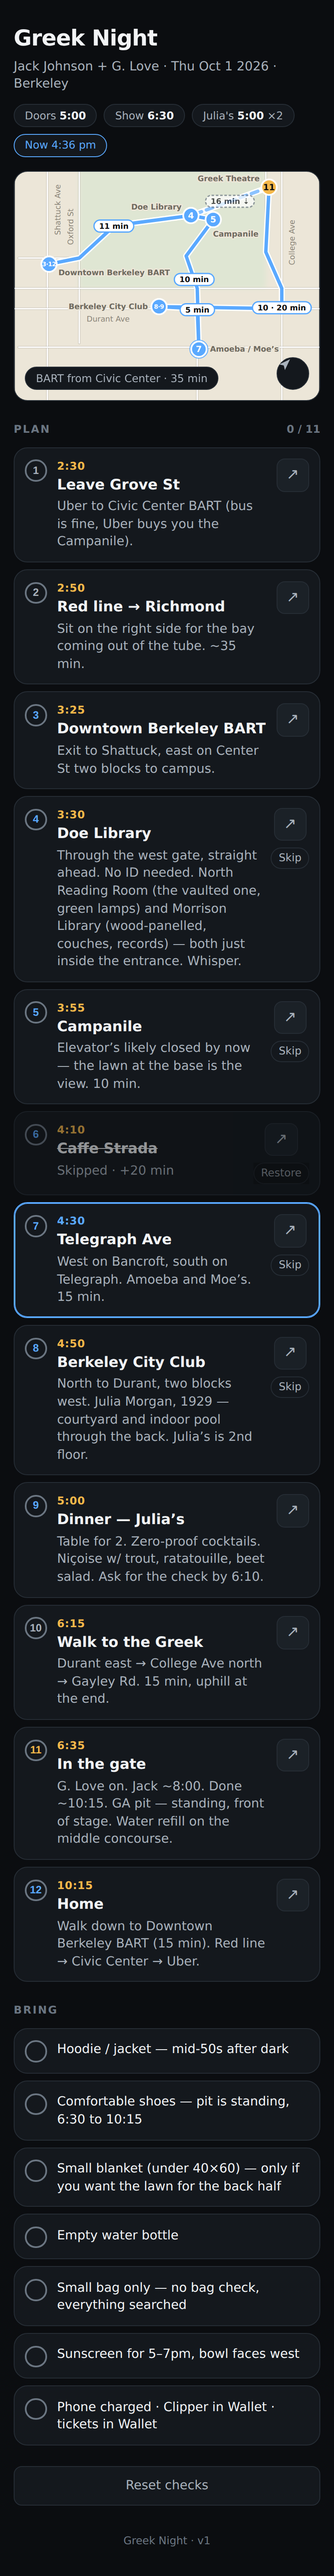
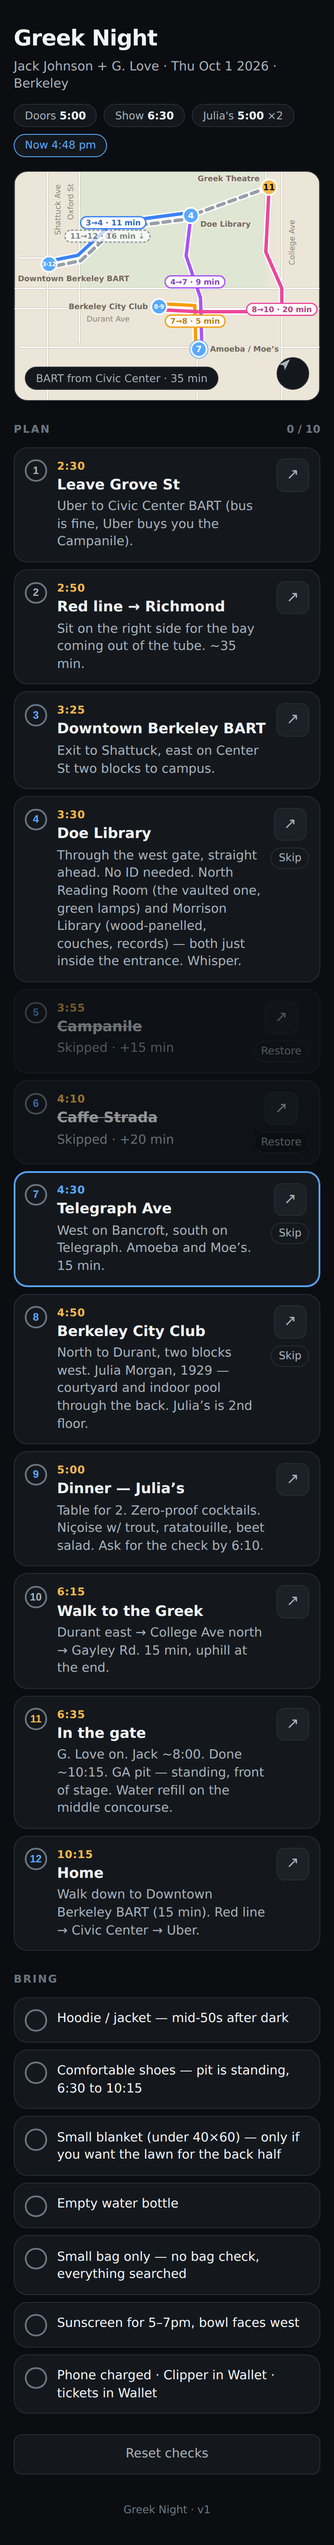
greek-night: colour per leg, parallel shared streets, 4-7 override
Each outbound leg is its own path in its own colour; a leg spliced by a
skip takes the colour of the leg it starts with. Pills carry the leg's
numbers in its colour. Where two legs run along the same street they
are drawn side by side, 3.5 units either side of a shared centreline,
so both show; the return now shows beside 3→4 all the way home. The
pin popup lists the legs in and out of the pin with colour dots.
Skipping 5 and 6 together walks Doe → Sather Gate → Telegraph → Amoeba.

Claude-Session: https://claude.ai/code/session_01SYEqCQ4izqiJdBAjLeUwFf

diff --git a/greek-night.html b/greek-night.html
@@ -68,11 +68,12 @@
   .gn-route-case{fill:none;stroke:#fff;stroke-width:7;stroke-linejoin:round;stroke-linecap:round}
   .gn-route{fill:none;stroke:var(--now);stroke-width:4;stroke-linejoin:round;stroke-linecap:round}
   .gn-route.ret{stroke-dasharray:8 6;opacity:.7}
+  .pp-dot{display:inline-block;width:.5rem;height:.5rem;border-radius:50%;margin-right:.35rem;vertical-align:.05em}
   .pin-l{font-size:9px;fill:#6f6a5f;stroke:#ece6d8;stroke-width:3;paint-order:stroke;stroke-linejoin:round;font-weight:600}
-  .walk-b{fill:#fff;stroke:var(--now);stroke-width:1.5}
-  .walk-t{font-size:9px;font-weight:700;fill:#0b0d10}
+  .walk-b{fill:#fff;stroke-width:1.5}
+  .walk-t{font-size:9px;font-weight:700}
   .walk.ret{opacity:.7}
-  .walk.ret .walk-b{stroke:var(--ink3);stroke-dasharray:3 2}
+  .walk.ret .walk-b{stroke-dasharray:3 2}
   .pin{cursor:pointer;transition:opacity .2s}
   .pin.done{opacity:.45}
   .pin-c{fill:var(--now);stroke:#fff;stroke-width:2}
@@ -283,6 +284,18 @@
     7: [[37.8687, -122.2588], [37.8687, -122.2612]],
     8: [[37.8677, -122.2588], [37.8677, -122.2535], [37.8687, -122.2535], [37.8705, -122.2545]]
   };
+  /* a gap with a better walk than its chained bypasses: skip 5 and 6 → Doe, Sather Gate, Bancroft & Telegraph, Amoeba */
+  var GAP_OVERRIDE = {'4-7': BYPASS[6]};
+  /* one colour per leg; a leg spliced by a skip takes the colour of the leg it starts with */
+  var LEG_COLOURS = {'3-4':'#3b82f6', '4-5':'#a855f7', '5-6':'#14b8a6', '6-7':'#22c55e', '7-8':'#f59e0b', '8-11':'#ec4899', 'ret':'#6b7682'};
+  function legColour(fromStep){
+    for (var k in LEG_COLOURS) if (k.split('-')[0] === String(fromStep)) return LEG_COLOURS[k];
+    return LEG_COLOURS.ret;
+  }
+  function darker(hex){   /* 20% darker, for pill text */
+    var n = parseInt(hex.slice(1), 16), c = [n >> 16 & 255, n >> 8 & 255, n & 255].map(function(v){ return Math.round(v * 0.8); });
+    return '#' + c.map(function(v){ return ('0' + v.toString(16)).slice(-2); }).join('');
+  }
   /* a pin stays while any of its steps is live: skip 8 and City Club remains for dinner, reading 9 */
   function liveSteps(s){ return s.steps.filter(function(k){ return !isSkipped(k); }); }
   function livePlaces(){ return PLACES.filter(function(s){ return liveSteps(s).length > 0; }); }
@@ -310,14 +323,19 @@
     var live = livePlaces(), legs = [];
     for (var i = 1; i < live.length; i++) {
       var a = live[i - 1], b = live[i], pts = [[a.lat, a.lng]];
+      var key = a.steps[0] + '-' + b.steps[0];
       var gap = PLACES.filter(function(s){ return s.steps[0] > a.steps[0] && s.steps[0] < b.steps[0]; });   /* the skipped pins between them, in order */
-      if (gap.length) gap.forEach(function(s){ pts = pts.concat(BYPASS[s.steps[0]]); });
-      else pts = pts.concat(LEG_WP[a.steps[0] + '-' + b.steps[0]] || []);
+      if (gap.length && GAP_OVERRIDE[key]) pts = pts.concat(GAP_OVERRIDE[key]);
+      else if (gap.length) gap.forEach(function(s){ pts = pts.concat(BYPASS[s.steps[0]]); });
+      else pts = pts.concat(LEG_WP[key] || []);
       pts.push([b.lat, b.lng]);
-      legs.push({pts:pts, mph:b.greek ? 2.5 : 3, label:b.greek ? '10 · ' : ''});   /* the climb to the Greek is step 10 */
+      /* named by the steps at each end; the climb to the Greek is step 10 */
+      legs.push({pts:pts, mph:b.greek ? 2.5 : 3, a:a, b:b, col:legColour(a.steps[0]),
+                 name:liveSteps(a)[0] + '→' + (b.greek ? 10 : liveSteps(b)[0])});
     }
     /* the return's pill sits on its visible dashed stretch (Greek → Doe) */
-    legs.push({pts:BACK, mph:3, ret:true, place:BACK.slice(0, 2)});
+    var greek = PLACES[PLACES.length - 1], bart = PLACES[0];
+    legs.push({pts:BACK, mph:3, ret:true, place:BACK.slice(0, 2), a:greek, b:bart, col:LEG_COLOURS.ret, name:'11→12'});
     legs.forEach(function(l){
       var m = 0;
       for (var j = 1; j < l.pts.length; j++) m += metres(l.pts[j - 1], l.pts[j]);
@@ -325,11 +343,8 @@
     });
     return legs;
   }
-  var LEGS = [], OUT = [];
-  function routeData(){
-    LEGS = walkLegs(); OUT = [];
-    LEGS.forEach(function(l){ if (l.ret) return; l.pts.forEach(function(c, j){ if (j === 0 && OUT.length) return; OUT.push(c); }); });
-  }
+  var LEGS = [];
+  function routeData(){ LEGS = walkLegs(); }
   var CAMPUS = [[37.8687, -122.2662], [37.8687, -122.2545], [37.8755, -122.2545], [37.8755, -122.2662]];
   var K = Math.cos(37.87 * Math.PI / 180);
   var NS = 'http://www.w3.org/2000/svg';
@@ -348,8 +363,9 @@
     return e;
   }
   function esc(s){ return String(s).replace(/[&<>"']/g, function(c){ return {'&':'&amp;','<':'&lt;','>':'&gt;','"':'&quot;',"'":'&#39;'}[c]; }); }
-  function popPill(href, name, meta){
-    return '<a class="pp" href="' + esc(href) + '" target="_blank" rel="noopener"><span class="pp-t"><b>' + name + '</b><span class="pp-m">' + meta + '</span></span><span class="pp-c">›</span></a>';
+  function popPill(href, name, lines){
+    return '<a class="pp" href="' + esc(href) + '" target="_blank" rel="noopener"><span class="pp-t"><b>' + name + '</b>' +
+      lines.map(function(l){ return '<span class="pp-m">' + l + '</span>'; }).join('') + '</span><span class="pp-c">›</span></a>';
   }
   function f(n){ return n.toFixed(1); }
 
@@ -377,6 +393,110 @@
     ob.segs.forEach(function(sg){ if (segHitsRect(sg[0], sg[1], R)) s += 10; });
     ob.rects.forEach(function(o){ if (rectsHit(r, o)) s += 10; });
     return s;
+  }
+
+  /* Shared streets: where two legs run along the same stretch, draw them side by side so both colours show.
+     1. split any segment where another leg's segment runs along it (under 8° apart, within 5 units), at the overlap's ends;
+     2. a split segment whose ends match another leg's segment that way, either direction, is shared;
+     3. every sharer snaps to one centreline and is offset 3.5 units off it, opposite sides; corners mitre, pin ends stay under the pin.
+     5 units, not 2: at wide sizes the City Club sits a few units off the Durant line, so its two legs fan out at slightly
+     different slopes while their 4-unit strokes still overlap. */
+  function parallelLegs(legs, P){
+    var TOL = 5, PAR = 0.14, GAP = 7, polys = legs.map(function(l){ return l.pts.map(function(c){ return P(c[0], c[1]); }); });
+    function sub(a, b){ return [a[0] - b[0], a[1] - b[1]]; }
+    function dot(a, b){ return a[0] * b[0] + a[1] * b[1]; }
+    function unit(a, b){ var d = sub(b, a), L = Math.hypot(d[0], d[1]) || 1; return [d[0] / L, d[1] / L]; }
+    function along(a0, a1, b0, b1){   /* b runs along a: parallel and both ends close to a's line */
+      var u = unit(a0, a1), v = unit(b0, b1);
+      if (Math.abs(u[0] * v[1] - u[1] * v[0]) > PAR) return false;
+      var t0 = sub(b0, a0), t1 = sub(b1, a0);
+      return Math.abs(u[0] * t0[1] - u[1] * t0[0]) <= TOL && Math.abs(u[0] * t1[1] - u[1] * t1[0]) <= TOL;
+    }
+    var cuts = polys.map(function(pl){ return pl.slice(1).map(function(){ return []; }); });
+    polys.forEach(function(A, i){ polys.forEach(function(B, j){
+      if (j === i) return;
+      for (var k = 0; k < A.length - 1; k++) {
+        var s0 = A[k], L = Math.hypot(A[k + 1][0] - s0[0], A[k + 1][1] - s0[1]);
+        if (L < 1) continue;
+        var u = unit(s0, A[k + 1]);
+        for (var m = 0; m < B.length - 1; m++) {
+          if (!along(s0, A[k + 1], B[m], B[m + 1])) continue;
+          var a = dot(u, sub(B[m], s0)), b = dot(u, sub(B[m + 1], s0));
+          var lo = Math.max(0, Math.min(a, b)), hi = Math.min(L, Math.max(a, b));
+          if (hi - lo < 3) continue;
+          [lo, hi].forEach(function(q){ if (q > 0.5 && q < L - 0.5) cuts[i][k].push(q); });
+        }
+      }
+    }); });
+    polys = polys.map(function(pl, i){
+      var out = [pl[0]];
+      for (var k = 0; k < pl.length - 1; k++) {
+        var d = sub(pl[k + 1], pl[k]), L = Math.hypot(d[0], d[1]);
+        cuts[i][k].sort(function(x, y){ return x - y; }).forEach(function(q, n, arr){
+          if (n && q - arr[n - 1] < 0.5) return;
+          out.push([pl[k][0] + d[0] * q / L, pl[k][1] + d[1] * q / L]);
+        });
+        out.push(pl[k + 1]);
+      }
+      return out;
+    });
+    function near(a, b){ return Math.hypot(a[0] - b[0], a[1] - b[1]) <= TOL; }
+    var off = polys.map(function(pl, i){
+      return pl.slice(1).map(function(_, k){
+        var a = pl[k], b = pl[k + 1], who = [{i:i, a:a, b:b}];
+        polys.forEach(function(Q, j){
+          if (j === i) return;
+          for (var m = 0; m < Q.length - 1; m++) {
+            if (near(a, Q[m]) && near(b, Q[m + 1]) && along(a, b, Q[m], Q[m + 1])) { who.push({i:j, a:Q[m], b:Q[m + 1]}); break; }
+            if (near(a, Q[m + 1]) && near(b, Q[m]) && along(a, b, Q[m + 1], Q[m])) { who.push({i:j, a:Q[m + 1], b:Q[m]}); break; }
+          }
+        });
+        if (who.length < 2) return {o:0, a:a, b:b};
+        who.sort(function(x, y){ return x.i - y.i; });
+        var ref = who[0], r0 = near(a, ref.a) ? ref.a : ref.b, r1 = r0 === ref.a ? ref.b : ref.a;   /* the shared centreline, in this leg's direction */
+        var c0 = (r0[0] < r1[0] || (r0[0] === r1[0] && r0[1] < r1[1])) ? r0 : r1, c1 = c0 === r0 ? r1 : r0;   /* the same normal for every sharer */
+        var n = unit(c0, c1);
+        var rank = who.map(function(x){ return x.i; }).indexOf(i);
+        return {o:(rank - (who.length - 1) / 2) * GAP, n:[-n[1], n[0]], a:r0, b:r1};
+      });
+    });
+    /* a leg keeps its offset along a straight continuation of a shared run, instead of jogging back to the centreline
+       right where another leg turns the corner */
+    off.forEach(function(sgs, i){
+      var pl = polys[i], changed = true;
+      while (changed) {
+        changed = false;
+        sgs.forEach(function(sg, k){
+          if (sg.o) return;
+          [k - 1, k + 1].forEach(function(nb){
+            if (sg.o || nb < 0 || nb >= sgs.length || !sgs[nb].o) return;
+            var u = unit(pl[k], pl[k + 1]), v = unit(pl[nb], pl[nb + 1]);
+            if (Math.abs(u[0] * v[1] - u[1] * v[0]) > PAR || dot(u, v) < 0) return;
+            sg.o = sgs[nb].o; sg.n = sgs[nb].n; changed = true;
+            if (nb === k - 1) sg.a = sgs[nb].b; else sg.b = sgs[nb].a;   /* start exactly where the snapped shared run ends */
+          });
+        });
+      }
+    });
+    polys.forEach(function(pl, i){
+      var seg = off[i].map(function(sg){
+        var n = sg.n || [0, 0];
+        return {o:sg.o, A:[sg.a[0] + n[0] * sg.o, sg.a[1] + n[1] * sg.o], B:[sg.b[0] + n[0] * sg.o, sg.b[1] + n[1] * sg.o]};
+      });
+      var draw = [seg[0].A];
+      for (var k = 1; k < seg.length; k++) {
+        var p = seg[k - 1], q = seg[k], v = pl[k];
+        if (!p.o && !q.o) { draw.push(v); continue; }
+        var r = sub(p.B, p.A), t = sub(q.B, q.A), den = r[0] * t[1] - r[1] * t[0];
+        if (Math.abs(den) > 1e-6) {
+          var w0 = sub(q.A, p.A), x = (w0[0] * t[1] - w0[1] * t[0]) / den, X = [p.A[0] + r[0] * x, p.A[1] + r[1] * x];
+          if (Math.hypot(X[0] - v[0], X[1] - v[1]) < 12) { draw.push(X); continue; }
+        }
+        draw.push(p.B); if (Math.hypot(p.B[0] - q.A[0], p.B[1] - q.A[1]) > 0.3) draw.push(q.A);
+      }
+      draw.push(seg[seg.length - 1].B);
+      legs[i].draw = draw;
+    });
   }
 
   function buildMap(){
@@ -422,19 +542,19 @@
       return [a, b];
     });
 
-    function routeD(pts){ return pts.map(function(c, k){ var p = P(c[0], c[1]); return (k ? 'L' : 'M') + f(p[0]) + ' ' + f(p[1]); }).join(''); }
-    var dOut = routeD(OUT), dBack = routeD(BACK);
-    S('path', {'class':'gn-route-case', d:dBack}, svg);
-    S('path', {'class':'gn-route ret', d:dBack}, svg);
-    S('path', {'class':'gn-route-case', d:dOut}, svg);
-    S('path', {'class':'gn-route', d:dOut}, svg);
+    parallelLegs(LEGS, P);
+    function routeD(pts){ return pts.map(function(p, k){ return (k ? 'L' : 'M') + f(p[0]) + ' ' + f(p[1]); }).join(''); }
+    var gr = S('g', {}, svg), outs = LEGS.filter(function(l){ return !l.ret; }), ret = LEGS.filter(function(l){ return l.ret; });
+    /* all casings first so no casing covers a neighbouring line; the return under the outbound legs */
+    ret.concat(outs).forEach(function(l){ S('path', {'class':'gn-route-case', d:routeD(l.draw)}, gr); });
+    ret.concat(outs).forEach(function(l){
+      S('path', {'class':'gn-route' + (l.ret ? ' ret' : ''), d:routeD(l.draw), style:'stroke:' + l.col, 'data-leg':l.name}, gr);
+    });
 
     /* obstacles for label placement */
     var ob = {circles:[], segs:[], rects:[]};
     livePlaces().forEach(function(s){ var p = P(s.lat, s.lng); ob.circles.push([p[0], p[1], 12]); });
-    [OUT, BACK].forEach(function(pts){
-      for (var i = 1; i < pts.length; i++) ob.segs.push([P(pts[i - 1][0], pts[i - 1][1]), P(pts[i][0], pts[i][1])]);
-    });
+    LEGS.forEach(function(l){ for (var i = 1; i < l.draw.length; i++) ob.segs.push([l.draw[i - 1], l.draw[i]]); });
     ob.rects.push(chip);
     ob.rects.push({x:br.left - sr.left - 2, y:br.top - sr.top - 2, w:br.width + 4, h:br.height + 4});   /* the location button */
 
@@ -452,11 +572,11 @@
 
     /* walk-time pills: centred on the leg at its midpoint by path length, like a route bubble, so the line passes under them.
        One that lands within 14 units of a pin slides along the leg away from it. A leg under 3 min gets none. */
-    var pinPts = livePlaces().map(function(s){ return P(s.lat, s.lng); });
+    var pinPts = livePlaces().map(function(s){ return P(s.lat, s.lng); }), pillBoxes = [];
     LEGS.forEach(function(l){
       if (l.min < 3) return;
-      var txt = (l.label || '') + l.min + ' min' + (l.ret ? ' ⇣' : ''), pw = measure('walk-t', txt) + 12, ph = 14;
-      var pts = (l.place || l.pts).map(function(c){ return P(c[0], c[1]); }), cum = [0];
+      var txt = l.name + ' · ' + l.min + ' min' + (l.ret ? ' ⇣' : ''), pw = measure('walk-t', txt) + 12, ph = 14;
+      var pts = l.draw, cum = [0];
       for (var j = 1; j < pts.length; j++) cum.push(cum[j - 1] + Math.hypot(pts[j][0] - pts[j - 1][0], pts[j][1] - pts[j - 1][1]));
       function at(fr){
         var d = cum[cum.length - 1] * fr, j = 1;
@@ -464,7 +584,7 @@
         var a = pts[j - 1], b = pts[j], t = (d - cum[j - 1]) / ((cum[j] - cum[j - 1]) || 1);
         return [a[0] + (b[0] - a[0]) * t, a[1] + (b[1] - a[1]) * t];
       }
-      function crowding(c){   /* the pin this spot is too close to, if any */
+      function crowding(c){   /* the pin or earlier pill this spot is too close to, if any */
         var r = {x:c[0] - pw / 2, y:c[1] - ph / 2, w:pw, h:ph};
         for (var i = 0; i < pinPts.length; i++) {
           var q = pinPts[i];
@@ -472,17 +592,29 @@
           var nx = Math.max(r.x, Math.min(q[0], r.x + r.w)), ny = Math.max(r.y, Math.min(q[1], r.y + r.h));
           if ((nx - q[0]) * (nx - q[0]) + (ny - q[1]) * (ny - q[1]) < 12 * 12) return q;
         }
+        for (var j = 0; j < pillBoxes.length; j++) if (rectsHit(r, pillBoxes[j])) return [pillBoxes[j].x + pillBoxes[j].w / 2, pillBoxes[j].y + pillBoxes[j].h / 2];
         return null;
       }
-      var fr = 0.5, c = at(fr), q, n = 0;
-      while ((q = crowding(c)) && n++ < 40) {
-        var lo = Math.max(0.04, fr - 0.025), hi = Math.min(0.96, fr + 0.025), a = at(lo), b = at(hi);
-        fr = Math.hypot(b[0] - q[0], b[1] - q[1]) > Math.hypot(a[0] - q[0], a[1] - q[1]) ? hi : lo;
-        c = at(fr);
+      var fr0 = 0.5;
+      if (l.place) {   /* the return: the midpoint of its dashed Greek → Doe stretch, as a fraction of the whole drawn return */
+        var doe = P(l.place[1][0], l.place[1][1]), bi = 0, bd = Infinity;
+        pts.forEach(function(q, k){ var d = Math.hypot(q[0] - doe[0], q[1] - doe[1]); if (d < bd) { bd = d; bi = k; } });
+        fr0 = cum[bi] / 2 / cum[cum.length - 1];
       }
-      var g = S('g', {'class':'walk' + (l.ret ? ' ret' : '')}, gp);
-      S('rect', {'class':'walk-b', x:f(c[0] - pw / 2), y:f(c[1] - ph / 2), width:f(pw), height:ph, rx:ph / 2}, g);
-      S('text', {'class':'walk-t', x:f(c[0]), y:f(c[1] + 3.2), 'text-anchor':'middle'}, g).textContent = txt;
+      var c = at(fr0), q = crowding(c);
+      if (q) {
+        var step = 1.5 / cum[cum.length - 1], a0 = at(Math.max(0, fr0 - step)), b0 = at(Math.min(1, fr0 + step));
+        var dirs = Math.hypot(b0[0] - q[0], b0[1] - q[1]) > Math.hypot(a0[0] - q[0], a0[1] - q[1]) ? [1, -1] : [-1, 1], found = null;
+        dirs.some(function(dir){
+          for (var fr = fr0 + dir * step; fr > 0.04 && fr < 0.96; fr += dir * step) { var cc = at(fr); if (!crowding(cc)) { found = cc; return true; } }
+          return false;
+        });
+        if (found) c = found;
+      }
+      var g = S('g', {'class':'walk' + (l.ret ? ' ret' : ''), 'data-leg':l.name}, gp);
+      S('rect', {'class':'walk-b', x:f(c[0] - pw / 2), y:f(c[1] - ph / 2), width:f(pw), height:ph, rx:ph / 2, style:'stroke:' + l.col}, g);
+      S('text', {'class':'walk-t', x:f(c[0]), y:f(c[1] + 3.2), 'text-anchor':'middle', style:'fill:' + darker(l.col)}, g).textContent = txt;
+      pillBoxes.push({x:c[0] - pw / 2 - 1, y:c[1] - ph / 2 - 1, w:pw + 2, h:ph + 2});
       ob.rects.push({x:c[0] - pw / 2 - 2, y:c[1] - ph / 2 - 2, w:pw + 4, h:ph + 4});
     });
 
@@ -526,8 +658,9 @@
         if (st[1]) {
           var y0 = Math.min(h - 6, Math.max(a[1], b[1])), y1 = Math.max(6, Math.min(a[1], b[1]));
           var ly = y0 - (y0 - y1) * fr, x = a[0];
-          cands.push({r:{x:x + 6, y:ly - len / 2, w:10, h:len}, x:x, y:ly, dy:'15', rot:true});
-          cands.push({r:{x:x - 16, y:ly - len / 2, w:10, h:len}, x:x, y:ly, dy:'-7', rot:true});
+          /* a rotated label renders about a unit wider than its nominal 10: allow for it */
+          cands.push({r:{x:x + 5, y:ly - len / 2, w:12, h:len}, x:x, y:ly, dy:'15', rot:true});
+          cands.push({r:{x:x - 17, y:ly - len / 2, w:12, h:len}, x:x, y:ly, dy:'-7', rot:true});
         } else {
           var x0 = Math.max(6, Math.min(a[0], b[0])), x1 = Math.min(w - 6, Math.max(a[0], b[0]));
           var lx = x0 + (x1 - x0) * fr - len / 2, yy = a[1];
@@ -573,7 +706,11 @@
   }
   function popOpen(i){
     var s = PLACES[i], steps = liveSteps(s);
-    popEl.innerHTML = popPill(PLAN[steps[0] - 1].map, esc(s.n), steps.map(function(k){ return 'step ' + k + ' · ' + esc(PLAN[k - 1].t); }).join(' / '));
+    var lines = [steps.map(function(k){ return 'step ' + k + ' · ' + esc(PLAN[k - 1].t); }).join(' / ')];
+    LEGS.forEach(function(l){
+      if (l.a === s || l.b === s) lines.push('<i class="pp-dot" style="background:' + l.col + '"></i>' + l.name + ' · ' + l.min + ' min');
+    });
+    popEl.innerHTML = popPill(PLAN[steps[0] - 1].map, esc(s.n), lines);
     popEl.hidden = false;
     linkedRows.forEach(function(r){ r.classList.remove('linked'); });
     linkedRows = steps.map(function(k){ return planEl.children[k - 1]; });
